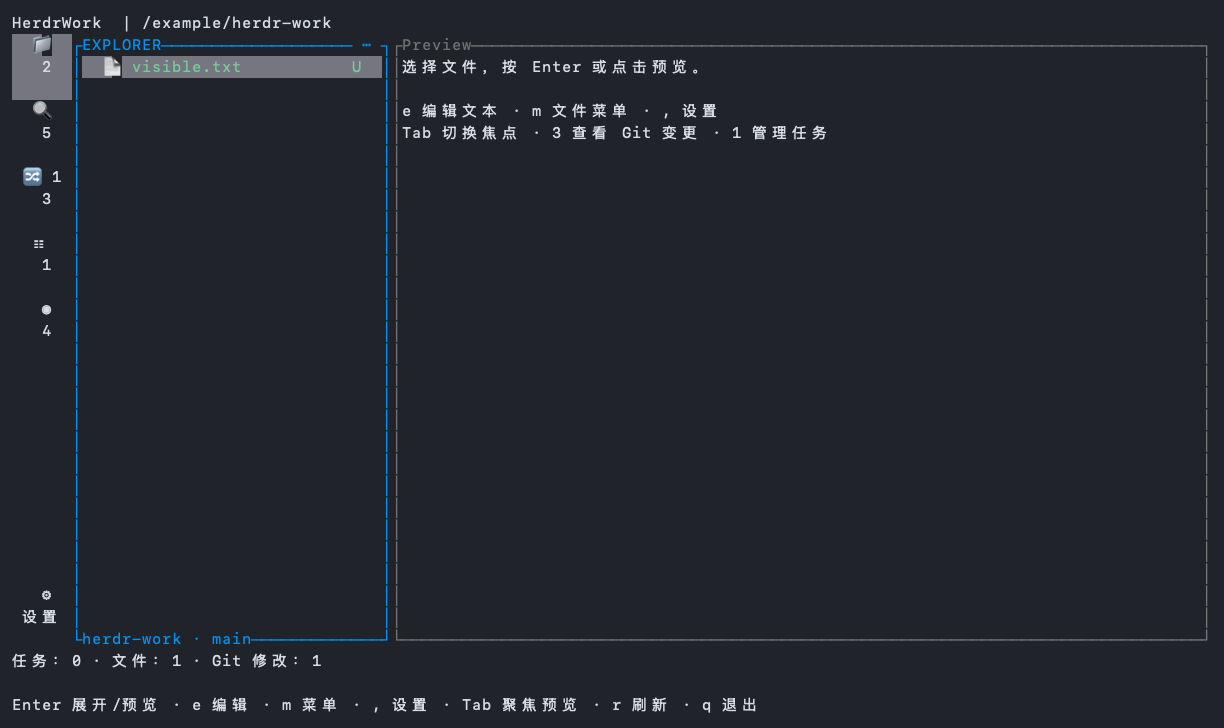
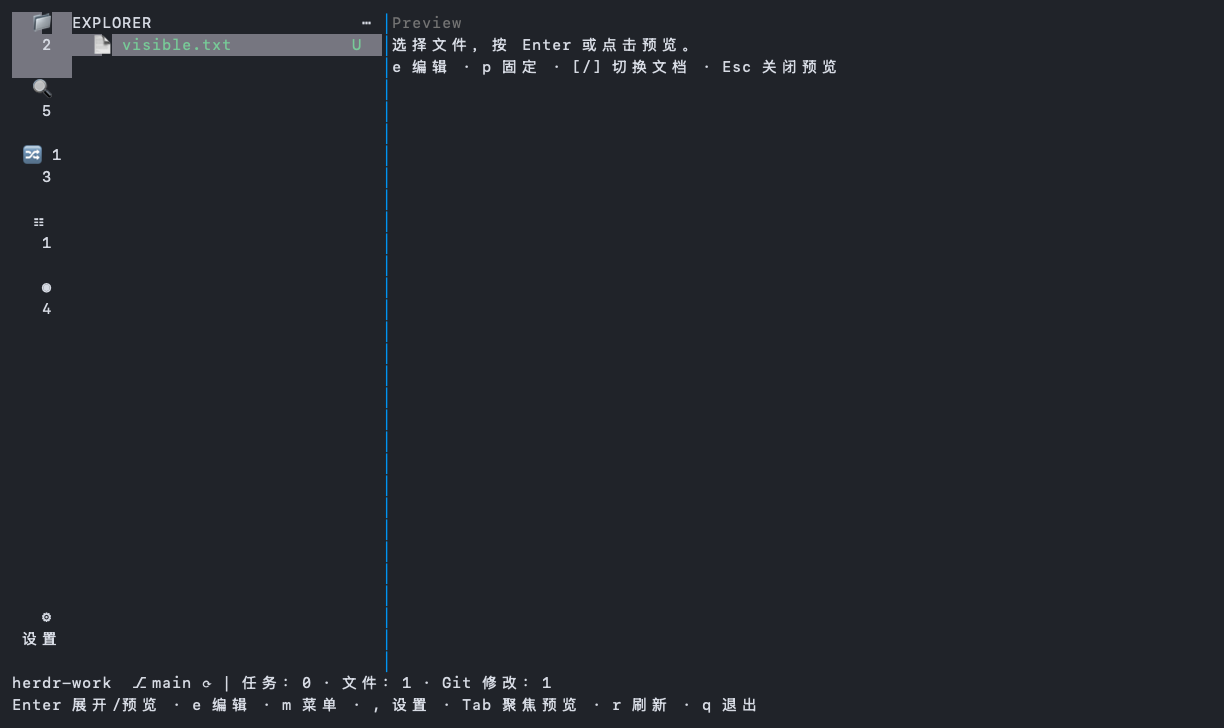
docs: 记录共享预览状态及紧凑布局验收截图 #29 #36
关联：docs/plans/sidebar-alignment.md。回写搜索、编辑、Doc、工作区状态与自有宿主接口的真实复用；保留待定宿主布局及原 Projects fixture 基线差异。更新由临时 Git/TestBackend 生成且经过隐私检查的界面图片，显示同层单行顶部和活动仓库底栏。验证：最终原始集成私有PTY、来源UI54项和Python14项通过；待审查修正后再固定发布SHA。

diff --git a/docs/upstream/source-map.md b/docs/upstream/source-map.md
@@ -51,7 +51,7 @@
 
 ## 搜索与历史接入补丁（#30）
 
-Sidebar 固定基线不变。`search::collect_quick_files/quick_matches` 经 Engine 的 `QuickIndex` 缓存供实时输入使用；内容搜索延续原 `explorer_app` 的 300 ms 防抖和单个在途请求策略，产品 epoch/请求号拒绝失效结果。输入、筛选和结果在同一侧栏内操作；命中行号作为加载目标保存，并交给原 `Editor` 定位。
+Sidebar 固定基线不变。`search::collect_quick_files/quick_matches` 经 Engine 的 `QuickIndex` 缓存供实时输入使用；内容搜索延续原 `explorer_app` 的 300 ms 防抖和单个在途请求策略，产品 epoch/请求号拒绝失效结果。输入、筛选和结果在同一侧栏内操作；命中行号作为加载目标保存，并交给共享 `Doc` 和原 `Editor` 定位。
 
 原 `viewer::load_show` 的 Git 参数构造抽至共享 `scm::show_args`，来源 viewer 和产品 Engine 均调用同一实现，保留 stat、patch、路径过滤、禁用外部 Diff 及颜色；产品绘制调用来源 `ansi::to_lines`。File History 从当前 SCM 文件及其仓库创建快照，详情继续使用该快照的文件目标。没有新增另一套搜索或 patch 算法。
 
@@ -66,7 +66,7 @@ Sidebar 固定基线不变。`search::collect_quick_files/quick_matches` 经 Eng
 
 机械抽取后增加必要适配：文本读取上限 1 MiB/5000 行，避免原先先整文件读取再截断；glow 与 ffmpeg 都跳过相对 PATH、当前目录及活动工作目录内的程序，输出和等待有界，失败回退到代码/文本或可见媒体提示。复制沿原 native/OSC52 策略与队列顺序，OSC52 只由唯一事件循环输出；自动复制开关来自 HerdrWork 的 ui.json，队列随产品界面关闭而停止。
 
-文档身份为文件路径，固定状态、源行位置和换行在产品内存中维护；临时预览可替换，固定文档可切换和关闭。共享 `ViewState` 仅含一基源行与换行，供后续产品状态恢复使用，不保存像素、选区或编辑缓冲。未运行、读取或控制独立插件。
+文档身份为文件路径，临时预览可替换，固定文档可切换和关闭。共享 `ViewState` 仅含一基源行与换行；产品按目录实例保存固定文档身份与该状态，后台恢复不覆盖新打开的文档或 dirty 编辑器，不保存像素、选区或编辑缓冲。未运行、读取或控制独立插件。
 
 ## 自有宿主活动入口（#35）
 
